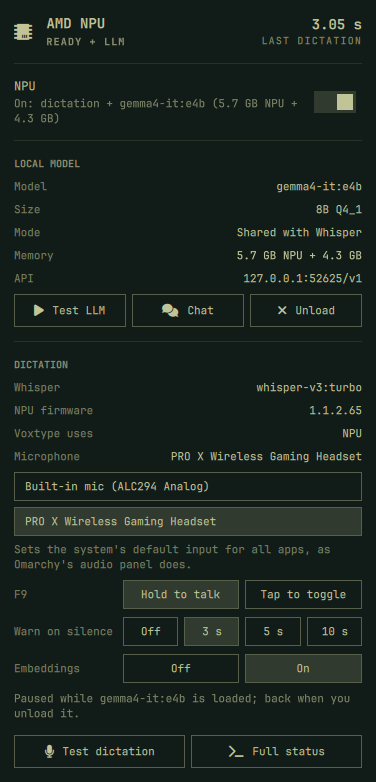
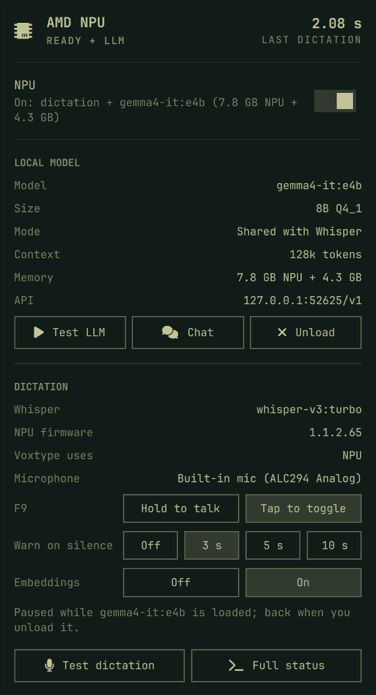
Card shots with the Context row; waveform follows scale changes
- README card shots retaken in Osaka Jade: the Context row, Gemma 4 E4B shared at 128k, the 12B on the
  NPU alone at its default 32k.
- The waveform restart after a screen change now survives the bar rebuilding its widgets (a scale
  change does that): the last layout is kept in $XDG_RUNTIME_DIR/amd-npu-screens.
- Overlay wording "Waiting for the model response to finish on the NPU..."; the README says a model
  and dictation take the NPU turn by turn.

diff --git a/Widget.qml b/Widget.qml
@@ -107,7 +107,10 @@ Panel {
   property string screensBaseline: ""
   property bool osdRestartPending: false
   readonly property bool osdOwner: !!barScreen && Quickshell.screens.length > 0 && barScreen === Quickshell.screens[0]
-  Component.onCompleted: screensBaseline = screensSig
+  // The baseline is kept in a file too: a scale change makes the bar rebuild its widgets, and a
+  // rebuilt widget taking the new layout as its baseline would never restart the waveform.
+  readonly property string screensFile: (Quickshell.env("XDG_RUNTIME_DIR") || "/tmp") + "/amd-npu-screens"
+  Component.onCompleted: screensReadProc.running = true
   onScreensSigChanged: if (screensBaseline !== "" && screensSig !== screensBaseline) osdDebounce.restart()
   readonly property bool onFocusedMonitor: !Hyprland.focusedMonitor || !barScreen || Hyprland.focusedMonitor.name === barScreen.name
   readonly property string configHome: Quickshell.env("XDG_CONFIG_HOME") || (Quickshell.env("HOME") + "/.config")
@@ -366,6 +369,11 @@ Panel {
     voxDevice = values["audio.device"] || "default"
   }
 
+  function saveScreens() {
+    screensSaveProc.command = ["sh", "-c", "printf '%s\\n' \"$2\" > \"$1\"", "sh", screensFile, screensSig]
+    screensSaveProc.running = true
+  }
+
   function restartWaveform(anyInstance) {
     if (!anyInstance && !osdOwner) return
     if (recState !== "idle") {
@@ -611,8 +619,28 @@ Panel {
     interval: 3000
     onTriggered: {
       root.screensBaseline = root.screensSig
+      root.saveScreens()
       root.restartWaveform(false)
     }
+  }
+
+  // The layout the waveform was last placed for (this boot), or the current one on the first run.
+  Process {
+    id: screensReadProc
+    command: ["cat", root.screensFile]
+    stdout: StdioCollector {
+      waitForEnd: true
+      onStreamFinished: {
+        var last = String(text || "").trim()
+        root.screensBaseline = last !== "" ? last : root.screensSig
+        if (last === "") root.saveScreens()
+        else if (last !== root.screensSig) osdDebounce.restart()
+      }
+    }
+  }
+
+  Process {
+    id: screensSaveProc
   }
 
   // The overlay's process name is truncated to 15 characters by the kernel ("voxtype-osd-gtk4").
@@ -674,7 +702,7 @@ Panel {
     remaining: Math.max(0, root.recRemaining)
     limit: root.recLimit
     warn: root.recWarn
-    label: root.recState === "transcribing" ? (root.dictationWaiting ? "Waiting for the model's answer..." : "Transcribing...")
+    label: root.recState === "transcribing" ? (root.dictationWaiting ? "Waiting for the model response to finish on the NPU..." : "Transcribing...")
       : root.mmss(Math.max(0, root.recRemaining)) + (root.recWarn ? " left - finishing soon" : " left")
     voxEnabled: root.voxOsdEnabled
     voxPosition: root.voxOsdPosition

diff --git a/README.md b/README.md
@@ -118,8 +118,9 @@ amd-npu unload                 # back to Whisper only
 | Unload | Back to Whisper only | Whisper returns and dictation moves back to the NPU |
 
 While a model is loaded, other apps can use it at `http://127.0.0.1:52625/v1` (OpenAI API, model name
-as shown by `amd-npu models`) or `http://127.0.0.1:52625/api` (Ollama API). In share mode, a long
-answer holds up dictation, so keep heavy API use to NPU-only sessions.
+as shown by `amd-npu models`) or `http://127.0.0.1:52625/api` (Ollama API). In share mode the model
+and dictation take the NPU turn by turn (one request at a time), so a long answer holds up dictation
+until it finishes; keep heavy API use to NPU-only sessions.
 
 Downloads are always a deliberate `amd-npu pull`. The card and `load` only offer models you've already
 downloaded; the card's Embeddings **On** opens a terminal for the embedding model's download, which asks
@@ -144,7 +145,7 @@ power panels:
 
 | Whisper only | Sharing with an LLM | LLM on the NPU alone | Released |
 |:---:|:---:|:---:|:---:|
-| <img src="docs/screenshots/card-whisper.png" width="200" alt="Card with Whisper only: NPU switch on showing what it holds, downloaded models (Gemma 4 12B and E4B, Qwen 3.5 4B) with Share / NPU only and Load, dictation details, the microphone list, F9 mode, silence warning and the Embeddings switch"> | <img src="docs/screenshots/card-share.png" width="200" alt="Card with Gemma 4 E4B loaded next to Whisper: model details, memory, API address, Test LLM, Chat and Unload; embeddings paused"> | <img src="docs/screenshots/card-exclusive.png" width="200" alt="Card with Gemma 4 12B on the NPU alone: Share the NPU with dictation button, Voxtype on its CPU model, embeddings still paused"> | <img src="docs/screenshots/card-released.png" width="200" alt="Card with the NPU released: switch off, NPU and memory free, dictation on the CPU model, settings that need the NPU dimmed"> |
+| <img src="docs/screenshots/card-whisper.png" width="200" alt="Card with Whisper only: NPU switch on showing what it holds, downloaded models (Gemma 4 12B and E4B, Qwen 3.5 4B) with Share / NPU only, the Context sizes and Load, dictation details, microphone, F9 mode, silence warning and the Embeddings switch"> | <img src="docs/screenshots/card-share.png" width="200" alt="Card with Gemma 4 E4B loaded next to Whisper at 128k context: model details, context, memory, API address, Test LLM, Chat and Unload; embeddings paused"> | <img src="docs/screenshots/card-exclusive.png" width="200" alt="Card with Gemma 4 12B on the NPU alone at its default 32k context: Share the NPU with dictation button, Voxtype on its CPU model, embeddings still paused"> | <img src="docs/screenshots/card-released.png" width="200" alt="Card with the NPU released: switch off, NPU and memory free, dictation on the CPU model, settings that need the NPU dimmed"> |
 
 - **Header:** READY, READY + LLM, LLM ONLY, RELEASED, LOCAL MODEL (Voxtype on its CPU model) or STOPPED, plus
   your last dictation time.
@@ -194,9 +195,9 @@ limit (`max_duration_secs`):
   It's only a hint: the recording keeps going. In the last 15 seconds it reads "0:12 left - finishing soon".
 - **The chip in the bar** turns into the time, and switches to the warning colour near the end.
 - **After you let go,** the overlay says "Transcribing..." until the text arrives. With a model loaded
-  next to Whisper, the NPU answers one request at a time, so a dictation sent while the model is writing
-  an answer waits for it to finish; the overlay then says **"Waiting for the model's answer..."** until
-  the NPU is free. Nothing is lost. To dictate during long answers, load the model **NPU only**
+  next to Whisper, the model and dictation take the NPU **turn by turn**: a dictation sent while the
+  model is writing an answer waits for that answer to finish, and the overlay says **"Waiting for the
+  model response to finish on the NPU..."** until it's dictation's turn. Nothing is lost. To dictate during long answers, load the model **NPU only**
   (dictation moves to the CPU model).
 
 The countdown places itself just above Voxtype's waveform, wherever Voxtype's `[osd]` settings put

diff --git a/CLAUDE.md b/CLAUDE.md
@@ -194,13 +194,19 @@ because only NPU dictations are counted.
   it scrolls. Test scales without touching the config:
   `hyprctl eval 'hl.monitor({ output = "eDP-1", mode = "2560x1600@180", position = "320x1080", scale = 2.5 })'`
   (2560x1600 also divides by 3.2), then `scale = "auto"` to restore; `wtype -k Down` scrolls an open card.
+- **Waveform after a scale change (0.13.0):** changing a monitor's scale makes the bar rebuild its
+  widgets, and the rebuilt widget used to take the new layout as its baseline, so the Voxtype waveform
+  kept the old geometry (found 2026-10-22: after screenshots at 1.6x, the waveform drew below the 2x
+  screen). The baseline now also lives in `$XDG_RUNTIME_DIR/amd-npu-screens`; a new widget compares
+  against it. Tested: 2 -> 1.6 and back each restart the overlay, a plain shell restart doesn't. Voxtype
+  itself restarts (and starts a fresh overlay) on every NPU-only/release switch.
 - **Queued dictation (0.13.0):** FastFlowLM serves one request at a time, first come first served
   (2026-10-22: a 22.5 s dictation waited 58 s behind a Gemma 4 E4B answer). The proxy keeps the requests
   it has in flight (`_inflight`: answer / transcription / other, with start times) and answers
   `GET /amd-npu/queue` itself with `{"answering", "dictationWaiting"}`: waiting = a transcription
   started after an answer that's still in flight. Same admission and origin checks as every route.
   While Voxtype is transcribing, the card polls it every 500 ms and the overlay says "Waiting for the
-  model's answer..." instead of "Transcribing...". Test without typing: start a long chat request, then
+  model response to finish on the NPU..." (the user's wording) instead of "Transcribing...". Test without typing: start a long chat request, then
   `amd-npu ping` (a transcription through the proxy) and read the route.
 - **Context picker (0.13.0):** `models_json` adds `maxCtx` for downloaded models
   (`max_position_embeddings` from `$FLM_MODELS/<repo folder>/config.json`, the folder taken from the catalog
